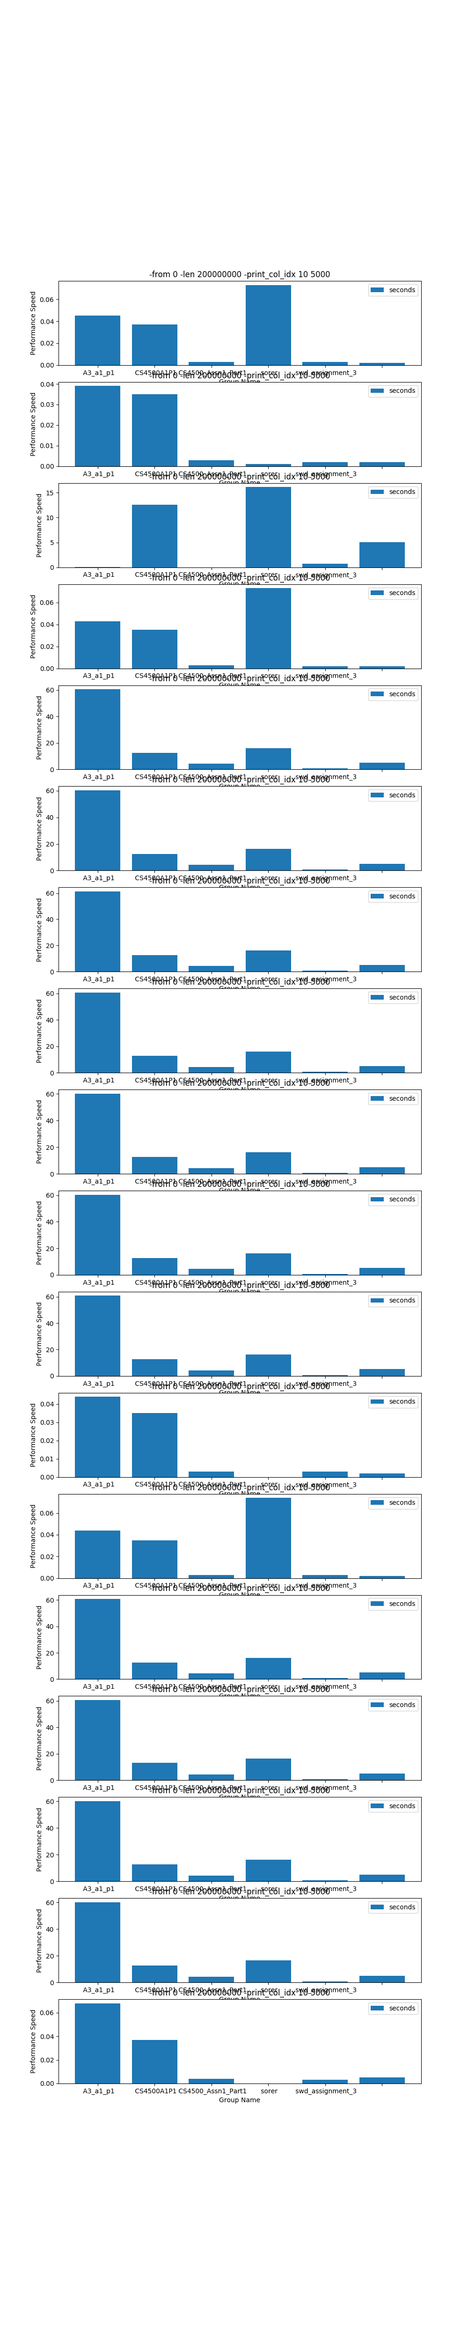
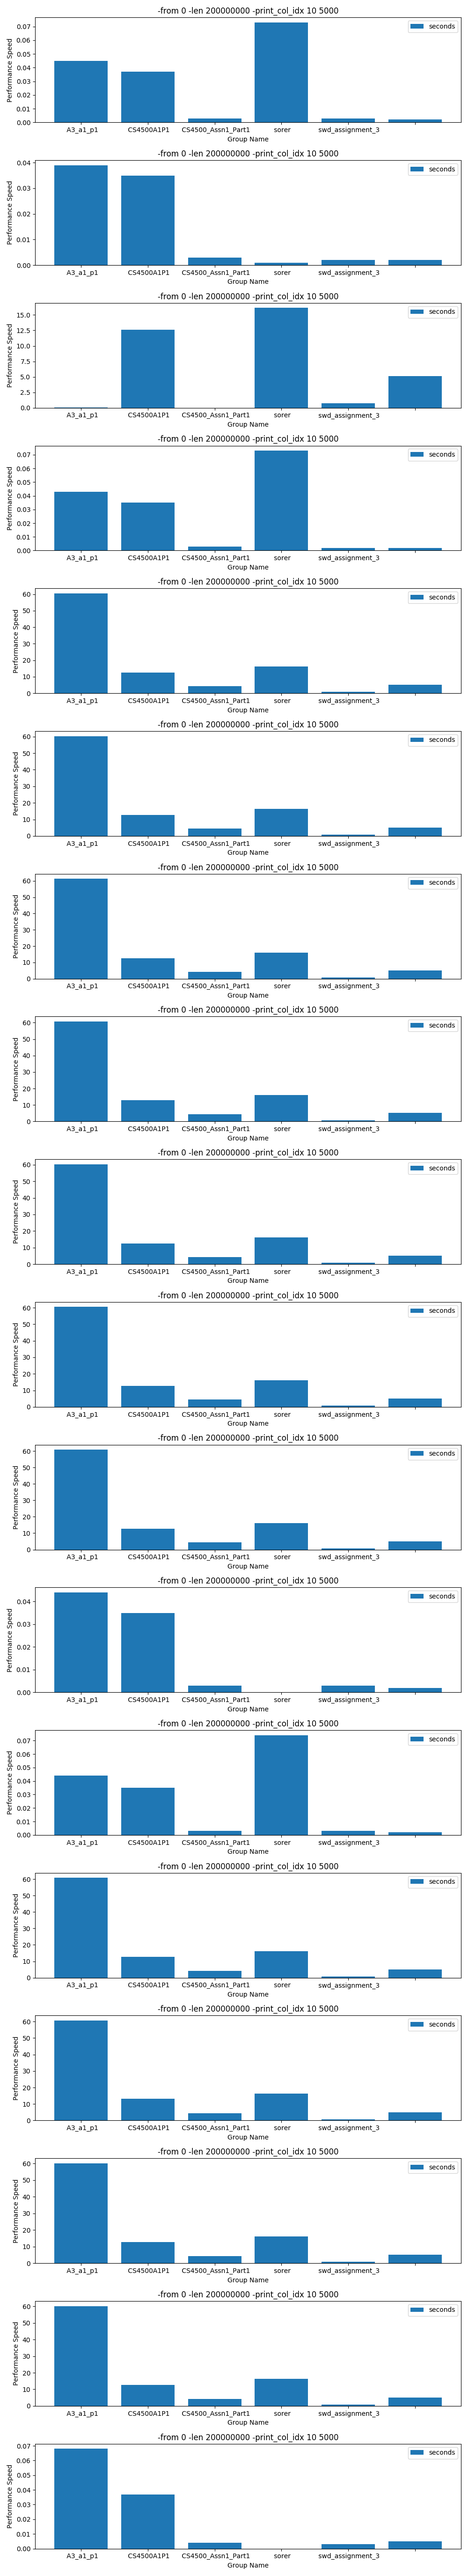
1 csv sofar, solve for tight layout

diff --git a/assignment3/part1/performance_visualization.py b/assignment3/part1/performance_visualization.py
@@ -6,7 +6,7 @@ import glob
 
 path = os.getcwd()
 
-fig = plt.figure(figsize=(10,50), dpi= 100)
+fig = plt.figure(figsize=(10,55), dpi= 100)
 # allFiles = glob.glob(path + "/*.csv")
 # frame = pd.DataFrame()
 # list_ = []
@@ -45,14 +45,8 @@ for i in range(len(data)):
     ax.set_title(command_name[i])
 
     ax.legend(loc = 'best')
-
+plt.tight_layout()
 plt.savefig('performance_compare.png')
-
-
-
-
-
-
 plt.show()
 
 
